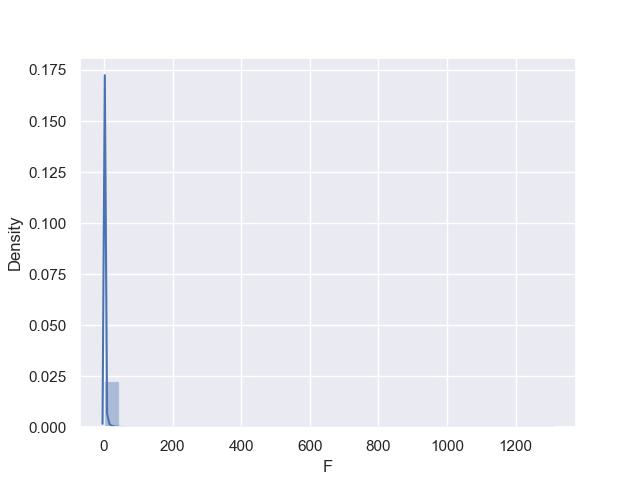
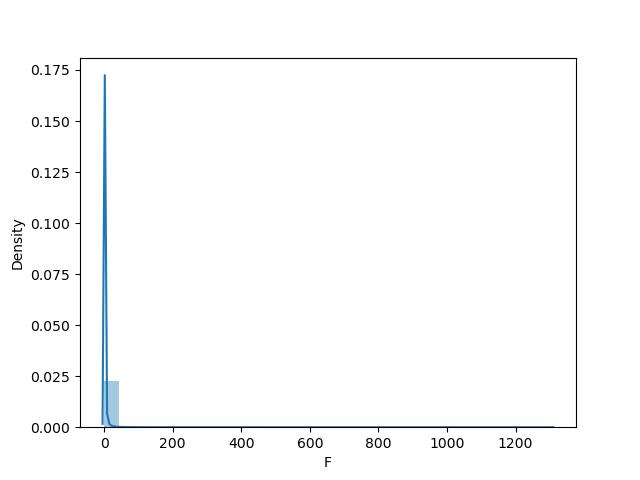
"重构了time_graph"

Changed region(s): [[0.0, 0.1562, 0.875, 0.9375], [0.0312, 0.125, 0.125, 0.1562], [0.5, 0.9375, 0.5312, 0.9688]]

diff --git a/time_graph.py b/time_graph.py
@@ -4,33 +4,38 @@ import pandas as pd
 import seaborn as sns
 import matplotlib.pyplot as plt
 
-sns.set(style="darkgrid")
+
+def divide_graph(n_data, h_time, t_time):
+    slice_class = n_data['TIMESLICE'].unique()
+    divide_net = [n_data[n_data['TIMESLICE'].isin([c])].reset_index(drop=True)
+                  for c in slice_class]
+    return slice_class[h_time], slice_class[t_time], divide_net[h_time: t_time + 1]
 
 
-def cal_idx(idx, timeslice, vsize):
-    return idx + vsize * (timeslice - 1)
-
-
-def build(v_size, e_data, e_id, n_data):
+def build(v_size, e_data, e_id, n_data, h_time, t_time):
     edge_ret = []
+    time_len = t_time - h_time + 1
+    t_min, t_max, divide_net = divide_graph(n_data, h_time, t_time)
+
+    def cal_idx(idx, timeslice, vsize):
+        return idx + vsize * (timeslice - t_min)
 
     def add(u, v, w):
         edge_ret[u].append((v, w))
 
     dict_edge = {}
-    slice_class = n_data['TIMESLICE'].unique()
-    edge_ret = [[] for i in range(v_size * int(slice_class[-1]) + 5)]
-    divide_net = [n_data[n_data['TIMESLICE'].isin([c])].reset_index(drop=True)
-                  for c in slice_class]
+
+    edge_ret = [[] for i in range(v_size * time_len + 5)]
+
     for i in range(e_id.shape[0]):
         dict_edge[e_id.loc[i, 'ID']] = e_id.loc[i, 'INDEX']
 
-    for i in range(1, len(slice_class)):
+    for i in range(1, time_len):
         for j in range(v_size):
             add(cal_idx(j, i, v_size), cal_idx(j, i - 1, v_size), 0)
             add(cal_idx(j, i - 1, v_size), cal_idx(j, i, v_size), 0)
     for net_part in divide_net:
-        slice = net_part.loc[0, 'TIMESLICE']
+        t_slice = net_part.loc[0, 'TIMESLICE']
         for i in range(net_part.shape[0]):
             cur_id = net_part.loc[i, 'ID']
             cur_idx = int(dict_edge.get(cur_id, '0'))
@@ -39,8 +44,9 @@ def build(v_size, e_data, e_id, n_data):
             if e_data.loc[cur_idx, 'JAM'] > net_part.loc[i, 'SPEED']:
                 cur_fr = e_data.loc[cur_idx, 'FR']
                 cur_to = e_data.loc[cur_idx, 'TO']
-                add(cal_idx(cur_fr, slice, v_size), cal_idx(cur_to, slice, v_size), 1)
-    return int(slice_class[-1]), edge_ret
+                add(cal_idx(cur_fr, t_slice, v_size),
+                    cal_idx(cur_to, t_slice, v_size), 1)
+    return time_len, edge_ret
 
 
 def cal_res(v_size, edge, file_n):
@@ -80,6 +86,8 @@ def cal_res(v_size, edge, file_n):
 
 if __name__ == '__main__':
     f_name = './data/dataset/GM_road_speed_data' + '_' + '0617' + '.csv'
+    head_time = 0
+    tail_time = 285
     # 0615时间片不全 0620数据极少 0619和0620为周末其余为工作日
     net_data = pd.read_csv(f_name, usecols=['SPEED', 'DATE',
                                             'TIMESLICE', 'ID'])
@@ -89,5 +97,6 @@ if __name__ == '__main__':
     edge_data = pd.read_csv('data/graph/edge_data.csv', index_col=0)
     edge_id = pd.read_csv('data/graph/edge_id.csv', index_col=0)
     vertex_size = vertex_data.shape[0]
-    slice_max, edge = build(vertex_size, edge_data, edge_id, net_data)
-    cal_res(vertex_size * slice_max, edge, '0617')
+    slice_len, edge_set = build(vertex_size, edge_data, edge_id,
+                                net_data, head_time, tail_time)
+    cal_res(vertex_size * slice_len, edge_set, '0617')
